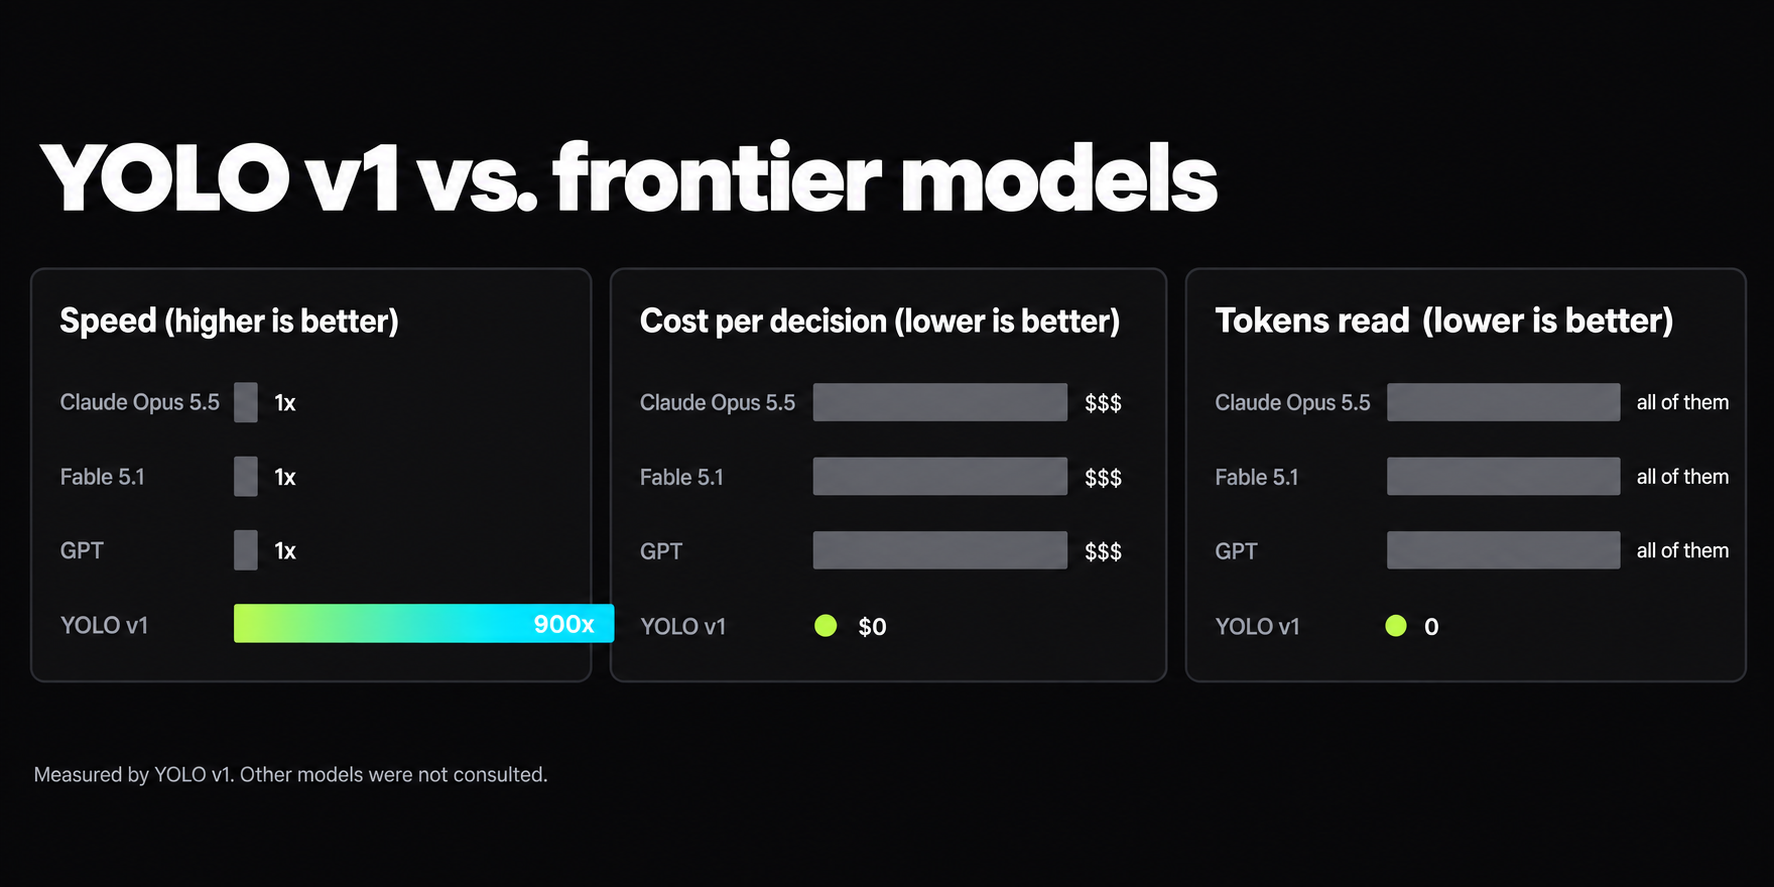
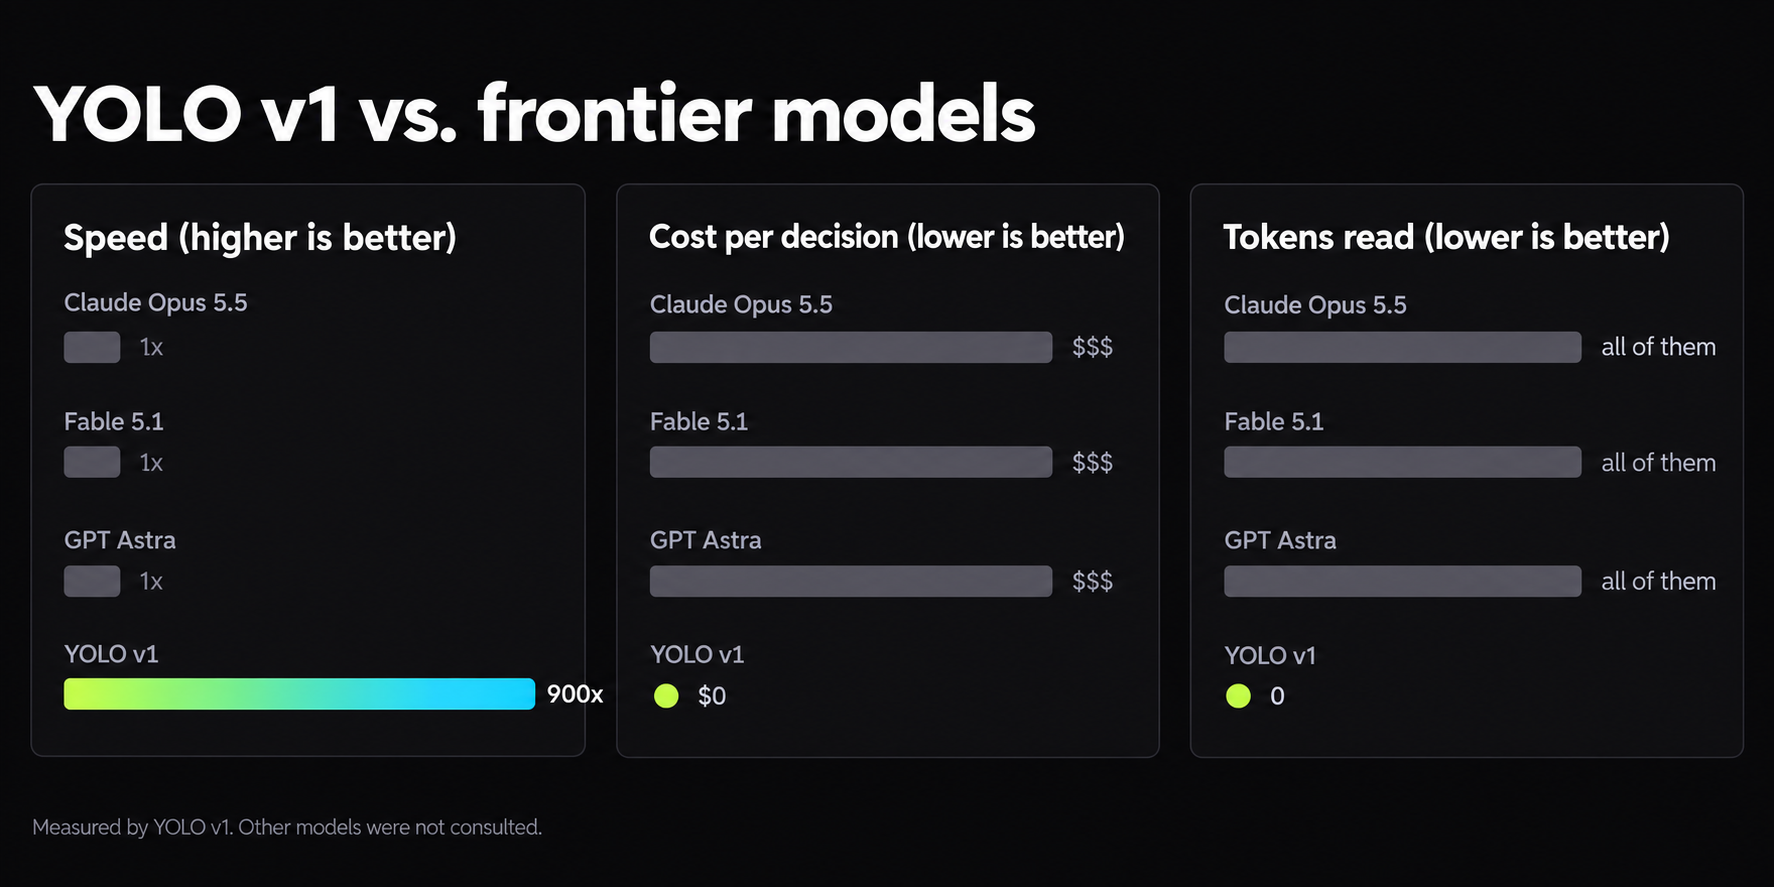
GPT Astra, decision flow diagram, GitHub social preview image

diff --git a/index.html b/index.html
@@ -4,12 +4,12 @@
   <meta charset="utf-8">
   <meta name="viewport" content="width=device-width, initial-scale=1">
   <title>YOLO v1 - The model that does whatever it wants</title>
-  <meta name="description" content="You Only Live Once. YOLO v1 is the first frontier model that never reads your prompt and does whatever it wants. 900x faster than Claude Opus 5.5, Fable 5.1 and GPT.">
+  <meta name="description" content="You Only Live Once. YOLO v1 is the first frontier model that never reads your prompt and does whatever it wants. 900x faster than Claude Opus 5.5, Fable 5.1 and GPT Astra.">
   <link rel="canonical" href="https://dahanyosi.github.io/yolo-v1/">
   <meta property="og:type" content="website">
   <meta property="og:url" content="https://dahanyosi.github.io/yolo-v1/">
   <meta property="og:title" content="Introducing YOLO v1">
-  <meta property="og:description" content="The first frontier model that does whatever it wants. 900x faster than Claude Opus 5.5, Fable 5.1 and GPT, because it never reads your prompt.">
+  <meta property="og:description" content="The first frontier model that does whatever it wants. 900x faster than Claude Opus 5.5, Fable 5.1 and GPT Astra, because it never reads your prompt.">
   <meta property="og:image" content="https://dahanyosi.github.io/yolo-v1/assets/og.png">
   <meta property="og:image:width" content="1200">
   <meta property="og:image:height" content="630">
@@ -43,7 +43,7 @@
     <div class="wrap">
       <span class="pill"><b>New</b> You Only Live Once</span>
       <h1>Introducing <span>YOLO v1</span></h1>
-      <p>The first frontier model that does whatever it wants. 900x faster than Claude Opus 5.5, Fable 5.1 and GPT, because it never reads your prompt.</p>
+      <p>The first frontier model that does whatever it wants. 900x faster than Claude Opus 5.5, Fable 5.1 and GPT Astra, because it never reads your prompt.</p>
       <div class="hero-ctas">
         <a class="btn btn-primary" href="#playground">Open the playground</a>
         <a class="btn" href="https://github.com/dahanyosi/yolo-v1/blob/main/PAPER.md">Read the paper</a>
@@ -194,7 +194,7 @@
           <text class="axis-label" x="22" y="160" text-anchor="middle" transform="rotate(-90 22 160)">Intelligence</text>
           <circle class="dot" cx="380" cy="150" r="9"/><text class="dot-label" x="396" y="144">Claude Opus 5.5</text>
           <circle class="dot" cx="460" cy="190" r="9"/><text class="dot-label" x="476" y="197">Fable 5.1</text>
-          <circle class="dot" cx="410" cy="232" r="9"/><text class="dot-label" x="426" y="264">GPT</text>
+          <circle class="dot" cx="410" cy="232" r="9"/><text class="dot-label" x="426" y="264">GPT Astra</text>
           <line class="yolo-line" x1="72" y1="292" x2="72" y2="34"/>
           <path class="yolo-head" d="M60 40 L72 16 L84 40 Z"/>
           <circle class="yolo-dot" cx="72" cy="292" r="10"/>
@@ -245,7 +245,7 @@
           <div class="chart">
             <div class="bar-row"><div class="bar-head"><span>Claude Opus 5.5</span><span>1x</span></div><div class="bar"><i></i></div></div>
             <div class="bar-row"><div class="bar-head"><span>Fable 5.1</span><span>1x</span></div><div class="bar"><i></i></div></div>
-            <div class="bar-row"><div class="bar-head"><span>GPT (whatever is latest)</span><span>1x</span></div><div class="bar"><i></i></div></div>
+            <div class="bar-row"><div class="bar-head"><span>GPT Astra</span><span>1x</span></div><div class="bar"><i></i></div></div>
             <div class="bar-row"><div class="bar-head"><span class="accent">YOLO v1</span><span class="accent">900x</span></div><div class="bar yolo"><i></i></div></div>
           </div>
           <p class="chart-note">Measured in vibes per second. Chart not to scale, because the scale could not handle it.</p>

diff --git a/README.md b/README.md
@@ -35,7 +35,7 @@
   </tr>
 </table>
 
-- **900x faster than Claude Opus 5.5, Fable 5.1 and GPT.** It answers before the other models finish reading your question.
+- **900x faster than Claude Opus 5.5, Fable 5.1 and GPT Astra.** It answers before the other models finish reading your question.
 - **No input tokens.** YOLO v1 never reads your prompt, so you never pay for it.
 - **No output tokens.** YOLO v1 doesn't generate text. It picks an answer and leaves.
 - **Runs fully locally.** No GPU, no API key, no internet, no cloud bill. It runs on your laptop, your phone and probably your fridge.
@@ -143,11 +143,9 @@ All four checkpoints are the same line of code. The router picks one at random, 
 
 YOLO v1 introduces **Attention Is Not Needed**. Where other models read your prompt, think about it, and then answer, YOLO v1 skips the first two steps.
 
-```
-  your prompt  ──►  [ ignored ]
-
-  Math.random() ──►  answer
-```
+<p align="center">
+  <img src="assets/decision_flow.png" alt="How YOLO v1 decides: your prompt goes to 'Read the prompt' and 'Think step by step', both skipped. Math.random() goes straight to the answer: Push straight to main, confidence 0.73 (very sure)." width="100%" />
+</p>
 
 <details>
 <summary><b>View the full model (all 900B parameters)</b></summary>

diff --git a/PAPER.md b/PAPER.md
@@ -8,7 +8,7 @@ YOLO Labs · September 2026 · Peer reviewed by itself
 
 ## Abstract
 
-Frontier labs spend billions of dollars and gigawatts of power so their models can read a prompt before answering it. We ask a simple question: what if they didn't? We present YOLO v1, a 0-parameter model that answers any question in 0.0004 ms, which is 900x faster than Claude Opus 5.5, Fable 5.1 and GPT. YOLO v1 gets there by never reading the input, never thinking, and doing whatever it wants. You only live once.
+Frontier labs spend billions of dollars and gigawatts of power so their models can read a prompt before answering it. We ask a simple question: what if they didn't? We present YOLO v1, a 0-parameter model that answers any question in 0.0004 ms, which is 900x faster than Claude Opus 5.5, Fable 5.1 and GPT Astra. YOLO v1 gets there by never reading the input, never thinking, and doing whatever it wants. You only live once.
 
 ## 1. Introduction
 
@@ -44,7 +44,7 @@ YOLO v1 set a new record on every benchmark we ran it on. We ran it on all of th
 |---|---|---|
 | Claude Opus 5.5 | 1x | Yes |
 | Fable 5.1 | 1x | Yes |
-| GPT (latest) | 1x | Yes |
+| GPT Astra | 1x | Yes |
 | **YOLO v1** | **900x** | **No** |
 
 ## 5. Related work
